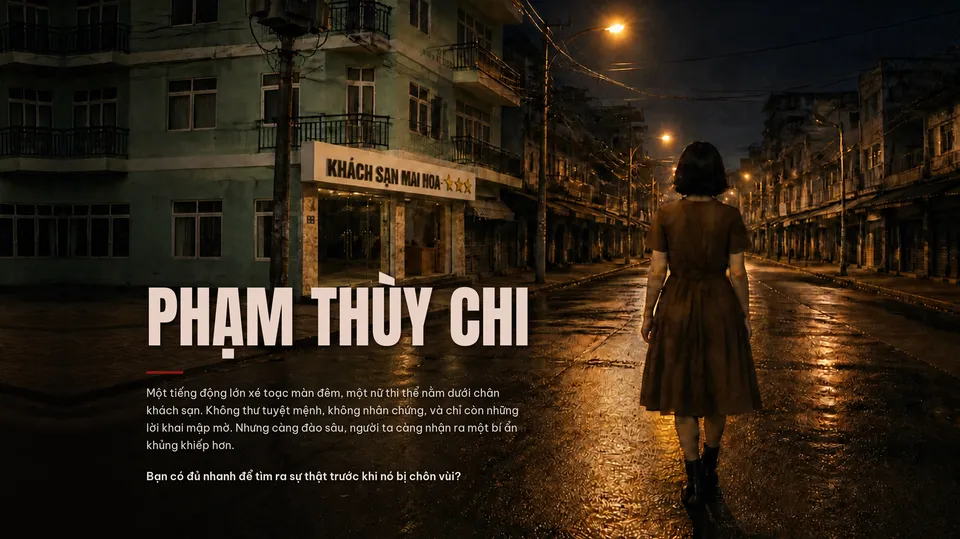
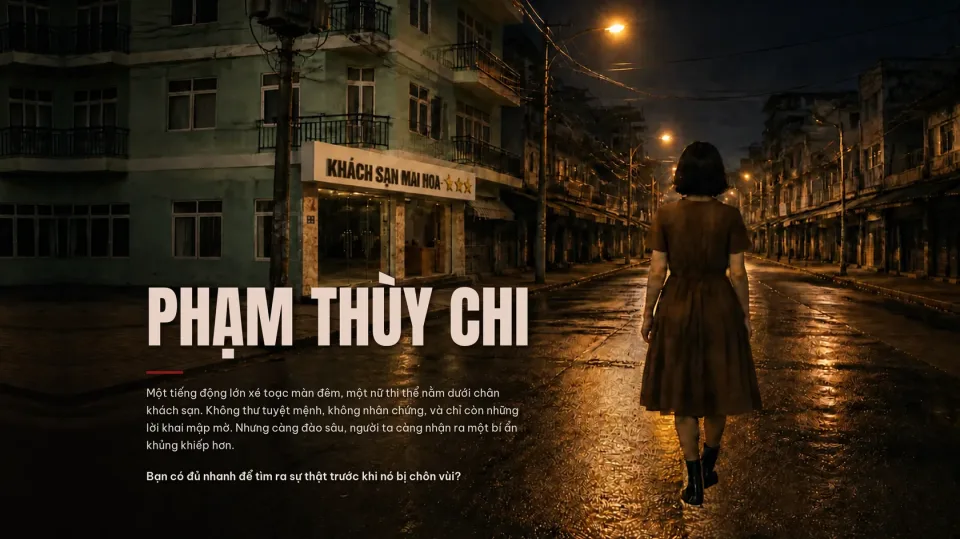
Access Page: bốt cổ ngắn theo mẫu "Giày", bóng phản chiếu bắt đầu ngay dưới đế
- Ảnh bìa: đôi bốt da đen cổ ngắn theo vùng khoanh trong "Giày des" (kiểu dáng theo "Giày"); khối tối của bốt dài cũ và bóng đổ cũ bên dưới thay bằng mặt đường
- Bóng phản chiếu: lật quanh đáy từng chiếc bốt, xiên phải theo hướng bóng đổ, thu ngắn còn ~2/3; gợn sóng, nhoè và nhạt dần như cũ; liền với đáy bốt, không có đường ngăn cách
- Bóng là lớp ảnh riêng đè lên ảnh bìa và mặt đường, lấn xuống phần thân trang
- Nền mặt đường mờ dần, tan hẳn vào nâu ấm ở mép Footnote

Changed region(s): [[0.6875, 0.8609, 0.7812, 1.0]]

diff --git a/src/styles/index.css b/src/styles/index.css
@@ -632,8 +632,7 @@
     margin-top: calc(-1 * var(--crop));
   }
 
-  /* Mặt đường: ô hoa văn lặp dọc, bắt đầu từ dưới đoạn đáy ảnh mờ dần; bóng phản chiếu của nhân vật nằm trên,
-     bắt đầu ngay chỗ đôi bốt bắt đầu mờ để bóng chạm chân */
+  /* Mặt đường: ô hoa văn lặp dọc, bắt đầu từ dưới đoạn đáy ảnh mờ dần */
   .access-scene::before {
     content: '';
     position: absolute;
@@ -642,9 +641,18 @@
     left: 0;
     right: 0;
     bottom: 0;
-    background:
-      var(--reflection) calc(100cqw * var(--reflection-x)) top / calc(100cqw * var(--reflection-w)) auto no-repeat,
-      var(--road-tile) center top / 100% auto repeat-y;
+    background: var(--road-tile) center top / 100% auto repeat-y;
+    pointer-events: none;
+  }
+
+  /* Bóng phản chiếu của nhân vật: bắt đầu ngay dưới đế từng chiếc bốt (trong ảnh bìa) rồi lấn xuống phần thân trang,
+     nằm đè lên ảnh bìa và mặt đường */
+  .access-scene__reflection {
+    position: absolute;
+    top: calc(var(--cover-h) * var(--reflection-y) - var(--crop));
+    left: calc(100cqw * var(--reflection-x));
+    width: calc(100cqw * var(--reflection-w));
+    height: auto;
     pointer-events: none;
   }
 

diff --git a/src/data/access.js b/src/data/access.js
@@ -19,9 +19,9 @@ const accessPages = {
       height: 944,
       // Mặt đường kéo dài bên dưới bìa: ô hoa văn lặp dọc liền mạch, dựng từ dải mặt đường sát đáy ảnh (cùng bề ngang 1680)
       road: roadTile,
-      // Bóng phản chiếu của nhân vật trên mặt đường ướt (lật ngược quanh chỗ chân chạm đất, lấn xuống phần thân trang);
-      // x, width: vị trí và bề ngang khung nhân vật trong ảnh bìa 1680
-      reflection: { src: reflection, x: 1080, width: 320 },
+      // Bóng phản chiếu của nhân vật trên mặt đường ướt: bắt đầu ngay dưới đế từng chiếc bốt (theo "Giày des"),
+      // xiên phải, lấn xuống phần thân trang; x, y, width: vị trí và bề ngang khung bóng theo toạ độ ảnh bìa 1680×944
+      reflection: { src: reflection, x: 1080, y: 840, width: 449 },
       // Lề trái của khối chữ trong ảnh bìa: màn rộng canh cột Mua ngay + ô nhập mã theo lề này, chừa chỗ cho bóng nhân vật
       textX: 256,
       alt: 'Poster vụ án Phạm Thùy Chi: cô gái mặc váy đi trên con phố đêm ướt mưa, cạnh Khách sạn Mai Hoa',

diff --git a/src/pages/AccessPage.jsx b/src/pages/AccessPage.jsx
@@ -57,8 +57,8 @@ function AccessContent({ access }) {
         style={{
           '--cover-ratio': access.cover.height / access.cover.width,
           '--road-tile': `url(${access.cover.road})`,
-          '--reflection': `url(${access.cover.reflection.src})`,
           '--reflection-x': access.cover.reflection.x / access.cover.width,
+          '--reflection-y': access.cover.reflection.y / access.cover.height,
           '--reflection-w': access.cover.reflection.width / access.cover.width,
           '--cover-text-x': access.cover.textX / access.cover.width,
         }}
@@ -74,6 +74,7 @@ function AccessContent({ access }) {
             fetchPriority="high"
           />
         </figure>
+        <img src={access.cover.reflection.src} alt="" className="access-scene__reflection" />
         <div className="access-road">
           <div className="flex justify-center px-3 pt-8 sm:pt-10">
             <BuyButton />
